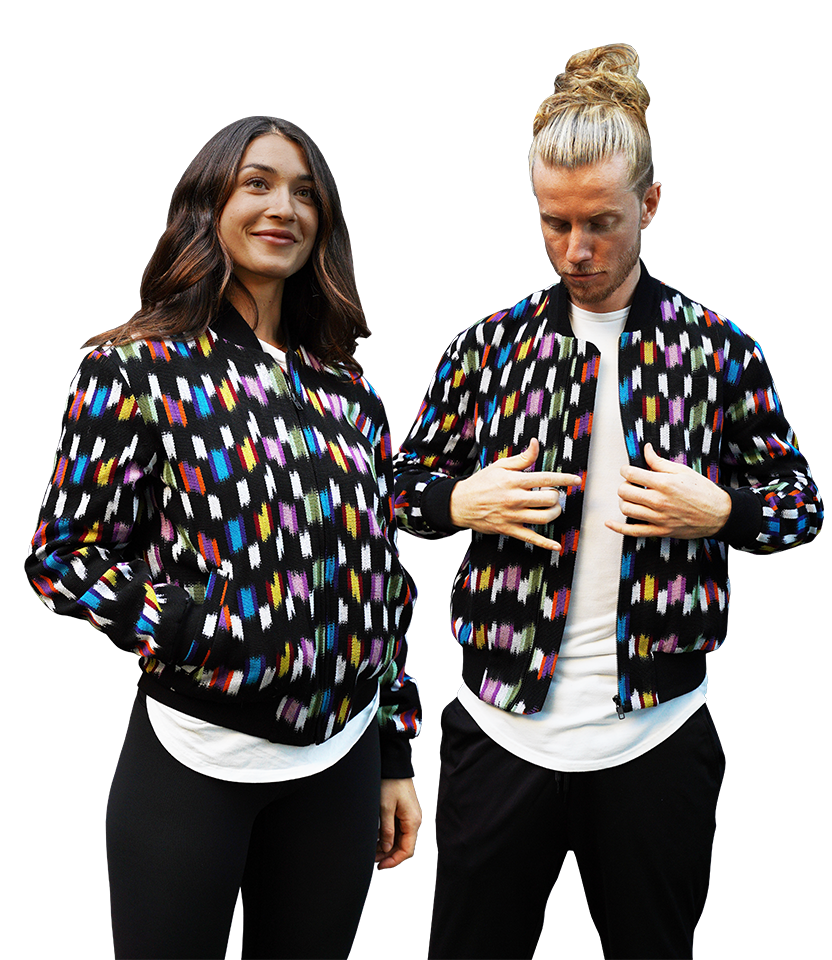
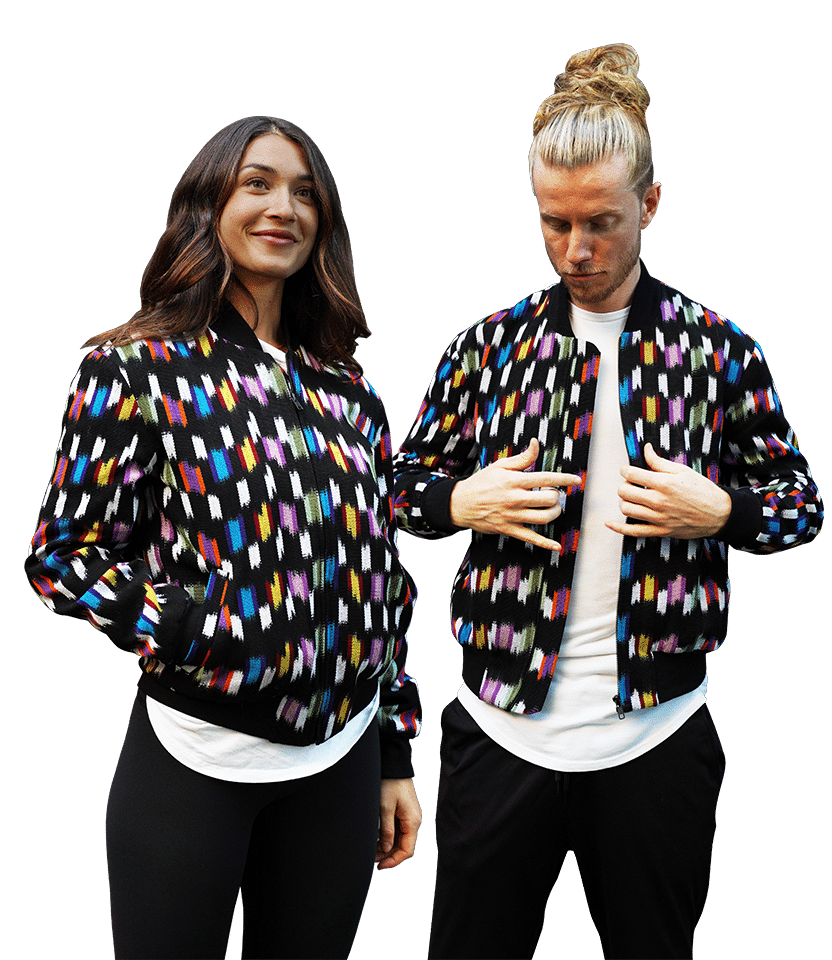
Adding compressed images for web

Changed region(s): [[0.2188, 0.4062, 0.2812, 0.4375], [0.4688, 0.6875, 0.5, 0.7188], [0.1875, 0.5312, 0.2188, 0.5625]]

diff --git a/projects/website/src/app/routes/landing/landing.component.scss b/projects/website/src/app/routes/landing/landing.component.scss
@@ -233,7 +233,7 @@ h1 {
     }
 
     &__img {
-      background-image: url(/assets/jacketFinal.png);
+      background-image: url(/assets/landingpage/THE_JACKET.png);
       background-size: cover; 
       height: 40rem;
       width: 100%;
@@ -260,7 +260,7 @@ h1 {
     }
 
     &__img {
-      background-image: url(/assets/mayansFinal.png);
+      background-image: url(/assets/landingpage/THE_MAYAS.png);
       background-size: cover; 
       height: 40rem;
       width: 100%;
@@ -279,7 +279,7 @@ h1 {
       transform: translateY(-129px);
     }
     &__img {
-      background-image: url(/assets/musicLanding.png);
+      background-image: url(/assets/landingpage/THE_MUSIC.png);
       background-size: cover; 
       height: 40rem;
       width: 100%;
@@ -288,7 +288,7 @@ h1 {
 
   &__social {
     &__img {
-      background-image: url(/assets/projects.png);
+      background-image: url(/assets/landingpage/SOCIAL_PROJECTS.png);
       background-size: cover; 
       height: 40rem;
       width: 100%;
@@ -313,7 +313,7 @@ h1 {
 
   &__story {
     &__img {
-      background-image: url(/assets/ourStory.png);
+      background-image: url(/assets/landingpage/THE_JOURNEY.png);
       background-size: cover; 
       height: 40rem;
       width: 100%;
@@ -326,7 +326,7 @@ h1 {
     margin-bottom: 3rem;
 
     &__img {
-      background-image: url(/assets/participate.png);
+      background-image: url(/assets/landingpage/PARTICIPATE.png);
       background-size: cover; 
       height: 40rem;
       width: 100%;
@@ -536,7 +536,7 @@ Complex Button start
 }
 
 .wall__bg {
-  background-image: url("/assets/background/mainBg.png");
+  background-image: url("/assets/landingpage/AGE_OF_THE_MAYA.png");
   background-position-y: center;
 }
 

diff --git a/projects/website/src/app/website.module.ts b/projects/website/src/app/website.module.ts
@@ -85,7 +85,7 @@ const routes: Routes = [
     NewsletterModule,
     ReadingsModule,
     ProductSliderModule,
-    RouterModule.forRoot(routes, {})
+    RouterModule.forRoot(routes, { useHash: true })
   ],
   bootstrap: [WebsiteComponent]
 })
